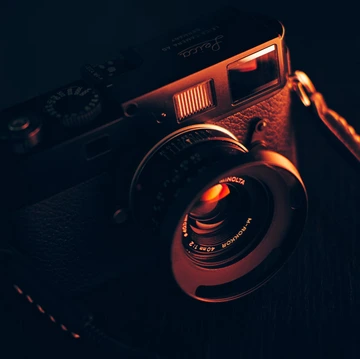
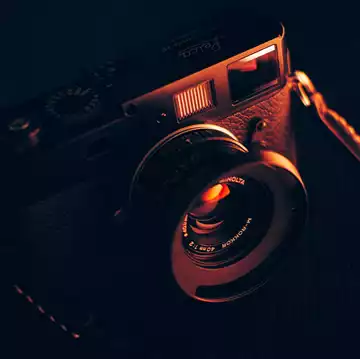
compressed images and metas tags
- Compressed image
- main, section, article semantic tags
- meta tags for social networks
- ld json local referencing

Changed region(s): [[0.7333, 0.337, 0.7639, 0.3677], [0.6417, 0.3677, 0.6722, 0.3983]]

diff --git a/index.html b/index.html
@@ -4,18 +4,37 @@
 <head>
 	<meta charset="UTF-8">
 	<meta name="viewport" content="width=device-width, initial-scale=1.0">
-	<link rel="stylesheet" href="./assets/bootstrap/bootstrap.css">
+
+	<!-- Balises meta Open Graph (Facebook) -->
+	<meta property="og:type" content="website" />
+	<meta property="og:url" content="https://nina-carducci.github.io" />
+	<meta property="og:title" content="Nina Carducci - Photographe" />
+	<meta property="og:description" content="Le site de Nina Carducci, une photographe expérimentée à Bordeaux" />
+	<meta property="og:image" content="./assets/images/nina.webp" />
+
+	<!-- Balises meta Twitter Cards -->
+	<meta name="twitter:card" content="summary_large_image" />
+	<meta name="twitter:site" content="@NinaCarducciPhotographe" />
+	<meta name="twitter:title" content="Nina Carducci - Photographe" />
+	<meta name="twitter:description" content="Le site de Nina Carducci, une photographe expérimentée à Bordeaux" />
+	<meta name="twitter:image" content="./assets/images/nina.webp" />
+	<meta name="twitter:url" content="https://nina-carducci.github.io" />
+
+	<meta name="description" content="Le site de Nina Carducci, une photographe expérimentée à Bordeaux">
+	<link rel="stylesheet" href="./assets/bootstrap/bootstrap.min.css">
 	<link rel="stylesheet" href="./assets/style.css">
 	<link rel="preconnect" href="https://fonts.googleapis.com">
 	<link rel="preconnect" href="https://fonts.gstatic.com" crossorigin>
 	<link
 		href="https://fonts.googleapis.com/css2?family=Inter&family=Spectral:ital,wght@0,400;1,300;1,400;1,800&display=swap"
 		rel="stylesheet">
-	<script src="./assets/bootstrap/bootstrap.bundle.js"></script>
+	<script src="./assets/bootstrap/bootstrap.bundle.min.js" defer></script>
 	<script src="https://code.jquery.com/jquery-3.4.1.min.js"
-		integrity="sha256-CSXorXvZcTkaix6Yvo6HppcZGetbYMGWSFlBw8HfCJo=" crossorigin="anonymous"></script>
-	<script src="./assets/maugallery.js"></script>
-	<script src="./assets/scripts.js"></script>
+		integrity="sha256-CSXorXvZcTkaix6Yvo6HppcZGetbYMGWSFlBw8HfCJo=" crossorigin="anonymous" defer></script>
+	<script src="./assets/maugallery.js" defer></script>
+	<script src="./assets/scripts.js" defer></script>
+
+	<!-- Referencement local -->
 	<script type="application/ld+json">
 		{
 		  "@context": "https://schema.org/",
@@ -31,6 +50,7 @@
 			"telephone": "0556677889"
 		}
 		</script>
+
 	<title>Nina Carducci - Photographe</title>
 </head>
 
@@ -50,169 +70,180 @@
 		</nav>
 	</header>
 
-	<div>
+	<main>
 
-		<div id="carouselExampleIndicators" class="carousel slide" data-bs-ride="carousel">
-			<div class="carousel-indicators">
-				<button type="button" data-bs-target="#carouselExampleIndicators" data-bs-slide-to="0" class="active"
-					aria-current="true" aria-label="Slide 1"></button>
-				<button type="button" data-bs-target="#carouselExampleIndicators" data-bs-slide-to="1"
-					aria-label="Slide 2"></button>
-				<button type="button" data-bs-target="#carouselExampleIndicators" data-bs-slide-to="2"
-					aria-label="Slide 3"></button>
-			</div>
-			<div class="carousel-inner">
-				<div class="carousel-item active">
-					<img src="./assets/images/slider/ryoji-iwata-wUZjnOv7t0g-unsplash.webp" class="d-block w-100"
-						alt="Homme de dos marchant sur un passage piéton">
-				</div>
-				<div class="carousel-item">
-					<img src="./assets/images/slider/nicholas-green-nPz8akkUmDI-unsplash.webp" class="d-block w-100"
-						alt="Foule de face lors d'un concert">
-				</div>
-				<div class="carousel-item">
-					<img src="./assets/images/slider/edward-cisneros-3_h6-1NPDGw-unsplash.webp" class="d-block w-100"
-						alt="2 jeunes mariés qui s'embrassent">
-				</div>
-			</div>
-			<button class="carousel-control-prev" type="button" data-bs-target="#carouselExampleIndicators"
-				data-bs-slide="prev">
-				<span class="carousel-control-prev-icon" aria-hidden="true"></span>
-				<span class="visually-hidden">Previous</span>
-			</button>
-			<button class="carousel-control-next" type="button" data-bs-target="#carouselExampleIndicators"
-				data-bs-slide="next">
-				<span class="carousel-control-next-icon" aria-hidden="true"></span>
-				<span class="visually-hidden">Next</span>
-			</button>
-		</div>
-	</div>
-	<div id="about">
-		<div class="picture left">
-			<img src="./assets/images/nina.webp" alt="Nina Carducci">
-		</div>
-		<div id="about-me">
-			<h2 class="about-me__title">A propos de moi</h2>
-			<p class="about-me__introduction">Devenir photographe était pour moi une évidence. Comme si j’y étais
-				prédestiné. Saisir un moment, une émotion, une situation, un endroit, une lumière et les rendre
-				immortels, voilà ce qui me fait vibrer.</p>
-			<p class="about-me__paragraphe">Nous passons notre vie à chercher le bonheur, et lorsque nous y touchons,
-				nous n’avons qu’une envie : le figer au travers de photographies pour le savourer avec les personnes qui
-				sont importantes à nos yeux, ou le partager au plus grand nombre.
-				C’est ce que je vous propose : saisir ces merveilleux moments au travers de mon regard, mon approche, ma
-				technique. Rendre ces moments immortels, afin que vous puissiez y puiser de l’amour, du bonheur, de la
-				tendresse et de lumière à chaque fois que vous poserez les yeux sur vos photos.</p>
-		</div>
-	</div>
-	<div id="gallery">
-		<h2 class="title">Portfolio</h2>
-		<div class="container py-3">
-			<div class="gallery" style="display: none">
-				<img data-gallery-tag="Concert" class="gallery-item"
-					src="./assets/images/gallery/concerts/aaron-paul-wnX-fXzB6Cw-unsplash.webp"
-					alt="Foule de dos lors d'un concert" />
-				<img data-gallery-tag="Entreprises" class="gallery-item"
-					src="./assets/images/gallery/entreprise/ali-morshedlou-WMD64tMfc4k-unsplash.webp"
-					alt="Portrait d'un homme en costume cravate" />
-				<img data-gallery-tag="Entreprises" class="gallery-item"
-					src="./assets/images/gallery/entreprise/jason-goodman-tHO1_OuKbg0-unsplash.webp"
-					alt="Portrait d'une femme de côté" />
-				<img data-gallery-tag="Mariages" class="gallery-item"
-					src="./assets/images/gallery/mariage/hannah-busing-RvF2R_qMpRk-unsplash.webp"
-					alt="Gros plan des mains de jeunes mariés" />
-				<img data-gallery-tag="Portrait" class="gallery-item"
-					src="./assets/images/gallery/portraits/ade-tunji-rVkhWWZFAtQ-unsplash.webp"
-					alt="Portrait d'un homme fermant les yeux" />
-				<img data-gallery-tag="Mariages" class="gallery-item"
-					src="./assets/images/gallery/mariage/jakob-owens-SiniLJkXhMc-unsplash.webp"
-					alt="Couple de jeunes mariés" />
-				<img data-gallery-tag="Portrait" class="gallery-item"
-					src="./assets/images/gallery/portraits/nino-van-prattenburg-443cl1uR_8-unsplash.webp"
-					alt="Portrait d'une jeune femme" />
-				<img data-gallery-tag="Concert" class="gallery-item"
-					src="./assets/images/gallery/concerts/austin-neill-hgO1wFPXl3I-unsplash.webp"
-					alt="Chanteur lors d'un concert" />
-				<img data-gallery-tag="Entreprises" class="gallery-item"
-					src="./assets/images/gallery/entreprise/mateus-campos-felipe-Fsgzm8N0hIY-unsplash.webp"
-					alt="Portrait d'une jeune femme devant son ordinateur" />
-			</div>
-		</div>
-		<div class="quote">
-			<figure>
-				<blockquote>
-					<p class="quote__text">Un portrait n’est pas une ressemblance. Dès lors qu’une émotion ou qu’un fait
-						est traduit en photo, il cesse d’être un fait pour devenir une opinion. L’inexactitude n’existe
-						pas en photographie. Toutes les photos sont exactes. Aucune d’elles n’est la vérité.</p>
-				</blockquote>
-				<figcaption class="quote__author">- Richard Avedon</figcaption>
-			</figure>
-		</div>
-	</div>
-	<div id="services">
-		<h2 class="title">Mes services</h2>
-		<div class="container">
-			<div class="service">
-				<div class="service__description">
-					<h3>Shooting photo</h3>
-					<p>Pour capturer vos moments les plus précieux et garder un souvenir impérissable. Je me déplace en
-						Île-de-France pour réaliser vos photos</p>
-				</div>
-				<div class="service__price">
-					<h4>350€/demi journée</h4>
-					<span>Matériel, déplacement inclus</span>
-				</div>
+		<div class="carousel">
 
-			</div>
-			<div class="service">
-				<div class="service__description">
-					<h3>Retouches</h3>
-					<p>Vous souhaitez retoucher vos photos pour un résultat professionnel ? Bénéficier d’un rendu
-						optimal pour vos publications</p>
+			<div id="carouselExampleIndicators" class="carousel slide" data-bs-ride="carousel">
+				<div class="carousel-indicators">
+					<button type="button" data-bs-target="#carouselExampleIndicators" data-bs-slide-to="0"
+						class="active" aria-current="true" aria-label="Slide 1"></button>
+					<button type="button" data-bs-target="#carouselExampleIndicators" data-bs-slide-to="1"
+						aria-label="Slide 2"></button>
+					<button type="button" data-bs-target="#carouselExampleIndicators" data-bs-slide-to="2"
+						aria-label="Slide 3"></button>
 				</div>
-				<div class="service__price">
-					<h4>50€/photo</h4>
-					<span>2 AR par photo</span>
+				<div class="carousel-inner">
+					<div class="carousel-item active">
+						<img src="./assets/images/slider/ryoji-iwata-wUZjnOv7t0g-unsplash.webp" class="d-block w-100"
+							alt="Homme de dos marchant sur un passage piéton">
+					</div>
+					<div class="carousel-item">
+						<img src="./assets/images/slider/nicholas-green-nPz8akkUmDI-unsplash.webp" class="d-block w-100"
+							alt="Foule de face lors d'un concert">
+					</div>
+					<div class="carousel-item">
+						<img src="./assets/images/slider/edward-cisneros-3_h6-1NPDGw-unsplash.webp"
+							class="d-block w-100" alt="2 jeunes mariés qui s'embrassent">
+					</div>
 				</div>
-			</div>
-			<div class="service">
-				<div class="service__description">
-					<h3>Album photos</h3>
-					<p>Partagez avec vos proches et vos clients les photos des moments partagés ensemble à travers un
-						album photo personnalisé</p>
-				</div>
-				<div class="service__price">
-					<h4>400€ album A4</h4>
-					<span>30 pages recto/verso</span>
-				</div>
+				<button class="carousel-control-prev" type="button" data-bs-target="#carouselExampleIndicators"
+					data-bs-slide="prev">
+					<span class="carousel-control-prev-icon" aria-hidden="true"></span>
+					<span class="visually-hidden">Previous</span>
+				</button>
+				<button class="carousel-control-next" type="button" data-bs-target="#carouselExampleIndicators"
+					data-bs-slide="next">
+					<span class="carousel-control-next-icon" aria-hidden="true"></span>
+					<span class="visually-hidden">Next</span>
+				</button>
 			</div>
 		</div>
-	</div>
-	<div class="quote">
-		<figure>
-			<blockquote>
-				<p class="quote__text">De manière inconsciente, je crois, je guette un regard, une expression, des
-					traits ou une nostalgie capable de résumer ou plus exactement de révéler une vie</p>
+
+		<article id="about">
+			<div class="picture left">
+				<img src="./assets/images/nina.webp" alt="Nina Carducci">
+			</div>
+			<div id="about-me">
+				<h2 class="about-me__title">A propos de moi</h2>
+				<p class="about-me__introduction">Devenir photographe était pour moi une évidence. Comme si j’y étais
+					prédestiné. Saisir un moment, une émotion, une situation, un endroit, une lumière et les rendre
+					immortels, voilà ce qui me fait vibrer.</p>
+				<p class="about-me__paragraphe">Nous passons notre vie à chercher le bonheur, et lorsque nous y
+					touchons,
+					nous n’avons qu’une envie : le figer au travers de photographies pour le savourer avec les personnes
+					qui
+					sont importantes à nos yeux, ou le partager au plus grand nombre.
+					C’est ce que je vous propose : saisir ces merveilleux moments au travers de mon regard, mon
+					approche, ma
+					technique. Rendre ces moments immortels, afin que vous puissiez y puiser de l’amour, du bonheur, de
+					la
+					tendresse et de lumière à chaque fois que vous poserez les yeux sur vos photos.</p>
+			</div>
+		</article>
+
+		<section id="gallery">
+			<h2 class="title">Portfolio</h2>
+			<div class="container py-3">
+				<div class="gallery" style="display: none">
+					<img data-gallery-tag="Concert" class="gallery-item"
+						src="./assets/images/gallery/concerts/aaron-paul-wnX-fXzB6Cw-unsplash.webp"
+						alt="Foule de dos lors d'un concert" />
+					<img data-gallery-tag="Entreprises" class="gallery-item"
+						src="./assets/images/gallery/entreprise/ali-morshedlou-WMD64tMfc4k-unsplash.webp"
+						alt="Portrait d'un homme en costume cravate" />
+					<img data-gallery-tag="Entreprises" class="gallery-item"
+						src="./assets/images/gallery/entreprise/jason-goodman-tHO1_OuKbg0-unsplash.webp"
+						alt="Portrait d'une femme de côté" />
+					<img data-gallery-tag="Mariages" class="gallery-item"
+						src="./assets/images/gallery/mariage/hannah-busing-RvF2R_qMpRk-unsplash.webp"
+						alt="Gros plan des mains de jeunes mariés" />
+					<img data-gallery-tag="Portrait" class="gallery-item"
+						src="./assets/images/gallery/portraits/ade-tunji-rVkhWWZFAtQ-unsplash.webp"
+						alt="Portrait d'un homme fermant les yeux" />
+					<img data-gallery-tag="Mariages" class="gallery-item"
+						src="./assets/images/gallery/mariage/jakob-owens-SiniLJkXhMc-unsplash.webp"
+						alt="Couple de jeunes mariés" />
+					<img data-gallery-tag="Portrait" class="gallery-item"
+						src="./assets/images/gallery/portraits/nino-van-prattenburg-443cl1uR_8-unsplash.webp"
+						alt="Portrait d'une jeune femme" />
+					<img data-gallery-tag="Concert" class="gallery-item"
+						src="./assets/images/gallery/concerts/austin-neill-hgO1wFPXl3I-unsplash.webp"
+						alt="Chanteur lors d'un concert" />
+					<img data-gallery-tag="Entreprises" class="gallery-item"
+						src="./assets/images/gallery/entreprise/mateus-campos-felipe-Fsgzm8N0hIY-unsplash.webp"
+						alt="Portrait d'une jeune femme devant son ordinateur" />
+				</div>
+			</div>
+
+			<blockquote class="quote">
+				<p class="quote__text">Un portrait n’est pas une ressemblance. Dès lors qu’une émotion ou qu’un
+					fait
+					est traduit en photo, il cesse d’être un fait pour devenir une opinion. L’inexactitude
+					n’existe
+					pas en photographie. Toutes les photos sont exactes. Aucune d’elles n’est la vérité.</p>
+				<cite class="quote__author">- Richard Avedon</cite>
 			</blockquote>
-			<figcaption class="quote__author">- Richard Avedon</figcaption>
-		</figure>
-	</div>
-	<div id="contact">
-		<div class="container">
-			<div class="form-container">
-				<h3>Une question ? Une demande de devis ?</h3>
-				<p> N’hésitez pas à m’écrire ! Je vous répondrais en moins de 24 heures</p>
-				<form action="" method="post">
-					<label>Nom<input type="text" name="nom" id="nom"></label>
-					<label>Email<input type="email" name="email" id="email"></label>
-					<label>Message<textarea name="message" id="message" cols="30" rows="10"></textarea></label>
-					<input type="submit" value="Envoyer" />
-				</form>
+
+		</section>
+
+		<section id="services">
+			<h2 class="title">Mes services</h2>
+			<div class="container">
+				<div class="service">
+					<div class="service__description">
+						<h3>Shooting photo</h3>
+						<p>Pour capturer vos moments les plus précieux et garder un souvenir impérissable. Je me déplace
+							en
+							Île-de-France pour réaliser vos photos</p>
+					</div>
+					<div class="service__price">
+						<h4>350€/demi journée</h4>
+						<span>Matériel, déplacement inclus</span>
+					</div>
+
+				</div>
+				<div class="service">
+					<div class="service__description">
+						<h3>Retouches</h3>
+						<p>Vous souhaitez retoucher vos photos pour un résultat professionnel ? Bénéficier d’un rendu
+							optimal pour vos publications</p>
+					</div>
+					<div class="service__price">
+						<h4>50€/photo</h4>
+						<span>2 AR par photo</span>
+					</div>
+				</div>
+				<div class="service">
+					<div class="service__description">
+						<h3>Album photos</h3>
+						<p>Partagez avec vos proches et vos clients les photos des moments partagés ensemble à travers
+							un
+							album photo personnalisé</p>
+					</div>
+					<div class="service__price">
+						<h4>400€ album A4</h4>
+						<span>30 pages recto/verso</span>
+					</div>
+				</div>
 			</div>
-			<div class="picture right">
-				<img src="./assets/images/camera.webp" alt="Appareil photo">
+		</section>
+
+		<blockquote class="quote">
+			<p class="quote__text">De manière inconsciente, je crois, je guette un regard, une expression, des
+				traits ou une nostalgie capable de résumer ou plus exactement de révéler une vie</p>
+			<cite class="quote__author">- Richard Avedon</cite>
+		</blockquote>
+
+		<section id="contact">
+			<div class="container">
+				<div class="form-container">
+					<h3>Une question ? Une demande de devis ?</h3>
+					<p> N’hésitez pas à m’écrire ! Je vous répondrais en moins de 24 heures</p>
+					<form action="" method="post">
+						<label>Nom<input type="text" name="nom" id="nom"></label>
+						<label>Email<input type="email" name="email" id="email"></label>
+						<label>Message<textarea name="message" id="message" cols="30" rows="10"></textarea></label>
+						<input type="submit" value="Envoyer" />
+					</form>
+				</div>
+				<div class="picture right">
+					<img src="./assets/images/camera.webp" alt="Appareil photo">
+				</div>
 			</div>
-		</div>
-	</div>
+		</section>
+
+	</main>
 </body>
 
 </html>
